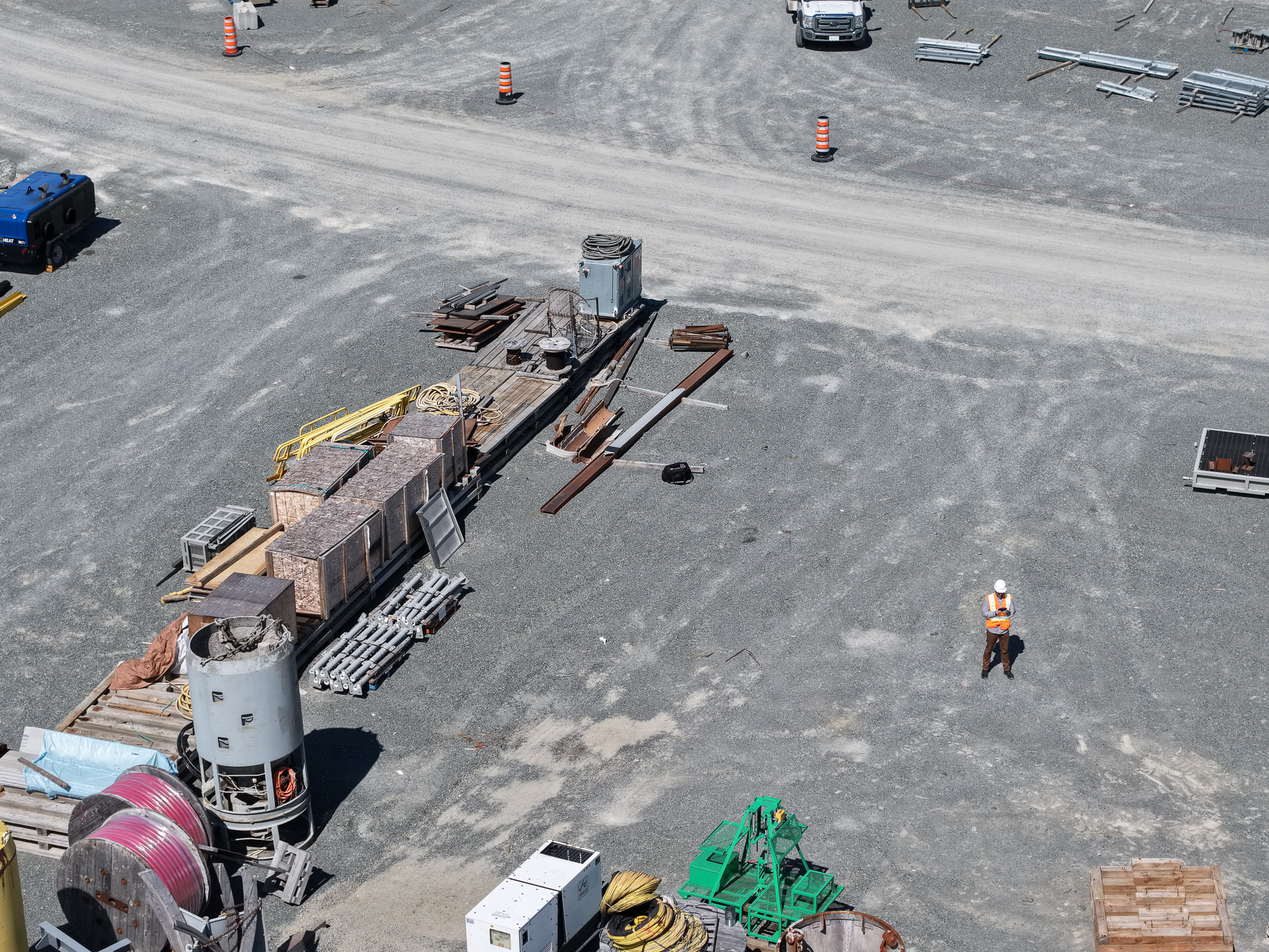
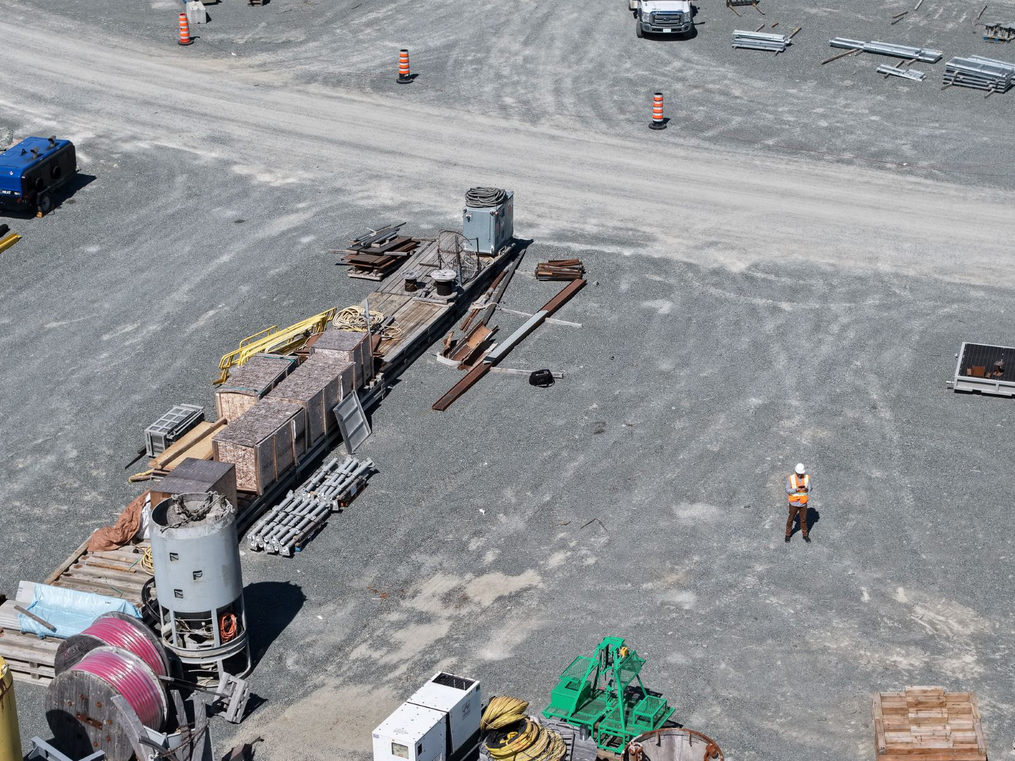
Update assets and content for service launch
Add new images (a-propos.jpg, dv.jpg) and update existing assets. Revise limites.html to reflect that Drone Abitibi now offers aerial imaging services in Abitibi-Témiscamingue, removing references to the development-only phase.

diff --git a/limites.html b/limites.html
@@ -74,10 +74,8 @@
 
       <p>
         Au Canada, l'utilisation des drones est encadrée par des règles précises.
-        Drone Abitibi étant pour l'instant un <strong>projet de marque en développement</strong>,
-        cette page a uniquement pour objectif d'expliquer, de manière générale,
+        Cette page a pour objectif d'expliquer, de manière générale,
         <strong>ce qu'un vol de drone peut faire et ce qu'il ne peut pas faire</strong>.
-        Il s'agit d'information destinée au public, et non d'une offre de services.
       </p>
 
       <h2>Possibilités</h2>
@@ -215,9 +213,8 @@
       </ul>
 
       <div class="footer-note">
-        Drone Abitibi est un projet de marque en développement et ne propose pas de services
-        d'imagerie aérienne pour le moment. Cette page est fournie uniquement à titre informatif
-        pour le public.
+        Drone Abitibi est un projet en développement proposant des services
+        d'imagerie aérienne en Abitibi-Témiscamingue.
       </div>
     </div>
   </div>
